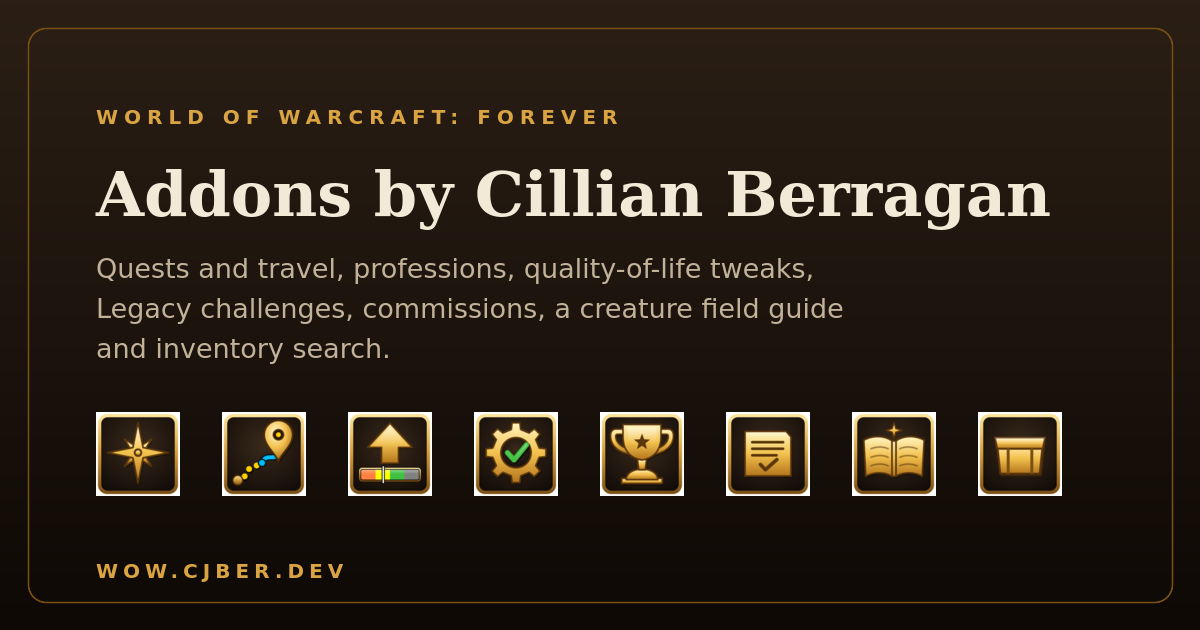
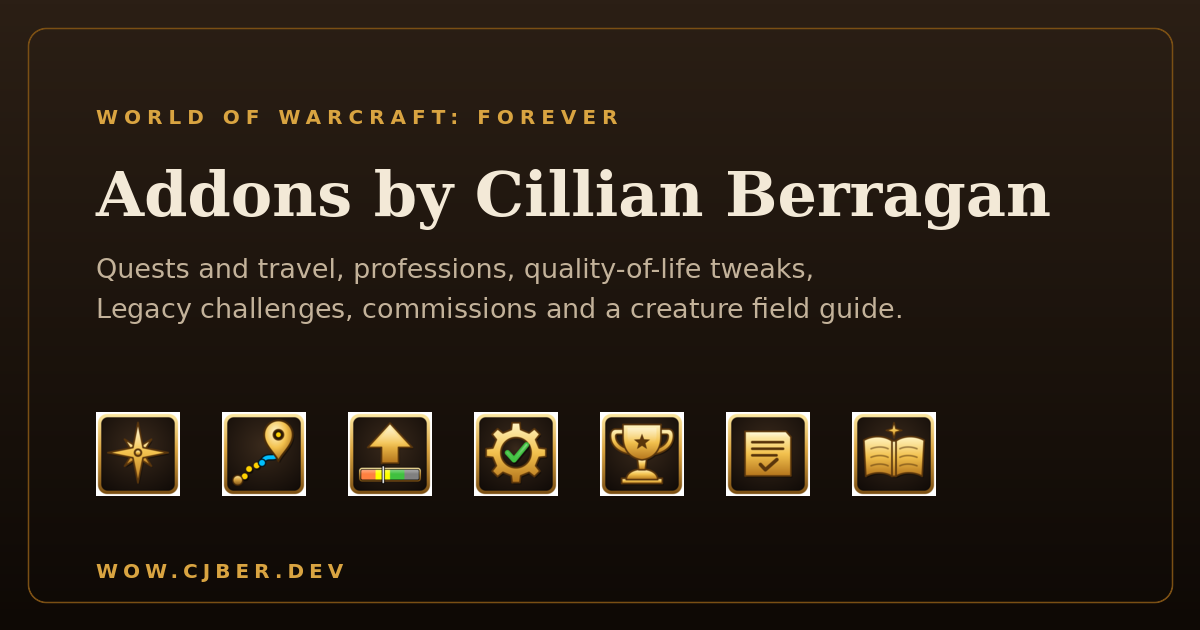
feat: remove Hoard Forever from the site (#1)
Hoard Forever is retired and no longer maintained (cjber/hoard-forever#50),
so the site stops advertising it: its section, jump link, icon and
screenshots go, the counts read seven addons and two GitHub-only installs,
and the social card drops its icon and its "inventory search" line.

Claude-Session: https://claude.ai/code/session_01BVTqPzSZ1iKTMw5J7eaw9X

diff --git a/site/index.html b/site/index.html
@@ -4,19 +4,19 @@
 <meta charset="utf-8">
 <meta name="viewport" content="width=device-width, initial-scale=1">
 <title>WoW: Forever addons by Cillian Berragan</title>
-<meta name="description" content="Eight free, open-source addons for World of Warcraft: Forever: quests and travel, professions, quality-of-life tweaks, Legacy challenges, commissions, a creature field guide and inventory search.">
+<meta name="description" content="Seven free, open-source addons for World of Warcraft: Forever: quests and travel, professions, quality-of-life tweaks, Legacy challenges, commissions and a creature field guide.">
 <link rel="canonical" href="https://wow.cjber.dev/">
 <link rel="icon" href="favicon.svg" type="image/svg+xml">
 <meta name="theme-color" content="#14100b" media="(prefers-color-scheme: dark)">
 <meta name="theme-color" content="#f6efe2" media="(prefers-color-scheme: light)">
 <meta property="og:type" content="website">
 <meta property="og:title" content="WoW: Forever addons by Cillian Berragan">
-<meta property="og:description" content="Eight free, open-source addons for World of Warcraft: Forever: quests and travel, professions, quality-of-life tweaks, Legacy challenges, commissions, a creature field guide and inventory search.">
+<meta property="og:description" content="Seven free, open-source addons for World of Warcraft: Forever: quests and travel, professions, quality-of-life tweaks, Legacy challenges, commissions and a creature field guide.">
 <meta property="og:url" content="https://wow.cjber.dev/">
 <meta property="og:image" content="https://wow.cjber.dev/og.png">
 <meta property="og:image:width" content="1200">
 <meta property="og:image:height" content="630">
-<meta property="og:image:alt" content="The eight addon icons on a dark warm background, under the title Addons by Cillian Berragan">
+<meta property="og:image:alt" content="The seven addon icons on a dark warm background, under the title Addons by Cillian Berragan">
 <meta name="twitter:card" content="summary_large_image">
 <link rel="preconnect" href="https://fonts.googleapis.com">
 <link rel="preconnect" href="https://fonts.gstatic.com" crossorigin>
@@ -399,8 +399,8 @@
   <div class="wrap">
     <p class="eyebrow">World of Warcraft: Forever</p>
     <h1>Addons for WoW: Forever</h1>
-    <p class="lede">Eight addons that make questing, travel, professions, challenges and your bags easier to follow. Every one is <strong>free and open source</strong>.</p>
-    <p class="lede">Each works on its own, and they work together when you install more than one. Five are published addons, and three install from GitHub releases.</p>
+    <p class="lede">Seven addons that make questing, travel, professions and challenges easier to follow. Every one is <strong>free and open source</strong>.</p>
+    <p class="lede">Each works on its own, and they work together when you install more than one. Five are published addons, and two install from GitHub releases.</p>
 
     <nav class="jump" aria-label="Jump to an addon">
       <h2>Jump to</h2>
@@ -412,7 +412,6 @@
         <li><a href="#legacy-forever">Legacy Forever</a></li>
         <li><a href="#commissions-forever">Commissions Forever</a></li>
         <li><a href="#field-guide-forever">Field Guide Forever</a></li>
-        <li><a href="#hoard-forever">Hoard Forever</a></li>
       </ul>
     </nav>
   </div>
@@ -606,33 +605,6 @@
       <figure>
         <img src="img/field-guide-forever/rares.webp" width="1200" height="881" alt="The rares page" loading="lazy">
         <figcaption>Rare creatures keep separate personal records.</figcaption>
-      </figure>
-    </div>
-  </article>
-
-  <article class="addon" id="hoard-forever">
-    <div class="addon-copy">
-      <header class="addon-head">
-        <img class="icon" src="icons/hoard-forever.svg" width="76" height="76" alt="">
-        <div>
-          <h2>Hoard Forever</h2>
-          <p class="tagline">Search your bags, bank and alts in one window.</p>
-        </div>
-      </header>
-      <p class="body-copy">Type an item's name and Hoard Forever lists every place it sits, on the character you are on and on every alt that has logged in since the addon was installed. Results cover bags, the reagent bag, the bank and its reagent bank, and a read-only guild vault snapshot, with filters for quality, item class and item level. It only reads, and never moves, sells, mails or uses an item.</p>
-      <p class="install">
-        <span class="install-label">Not on a store yet: install from</span>
-        <a class="btn" href="https://github.com/cjber/hoard-forever/releases">GitHub releases</a>
-      </p>
-    </div>
-    <div class="shots">
-      <figure>
-        <img src="img/hoard-forever/search.webp" width="1200" height="785" alt="Matching items in bags and bank" loading="lazy">
-        <figcaption>One search finds every stack in your bags and bank.</figcaption>
-      </figure>
-      <figure>
-        <img src="img/hoard-forever/alts.webp" width="1200" height="785" alt="Item stacks across three saved characters" loading="lazy">
-        <figcaption>Alts record themselves, so their stashes are searchable without logging over to them.</figcaption>
       </figure>
     </div>
   </article>
